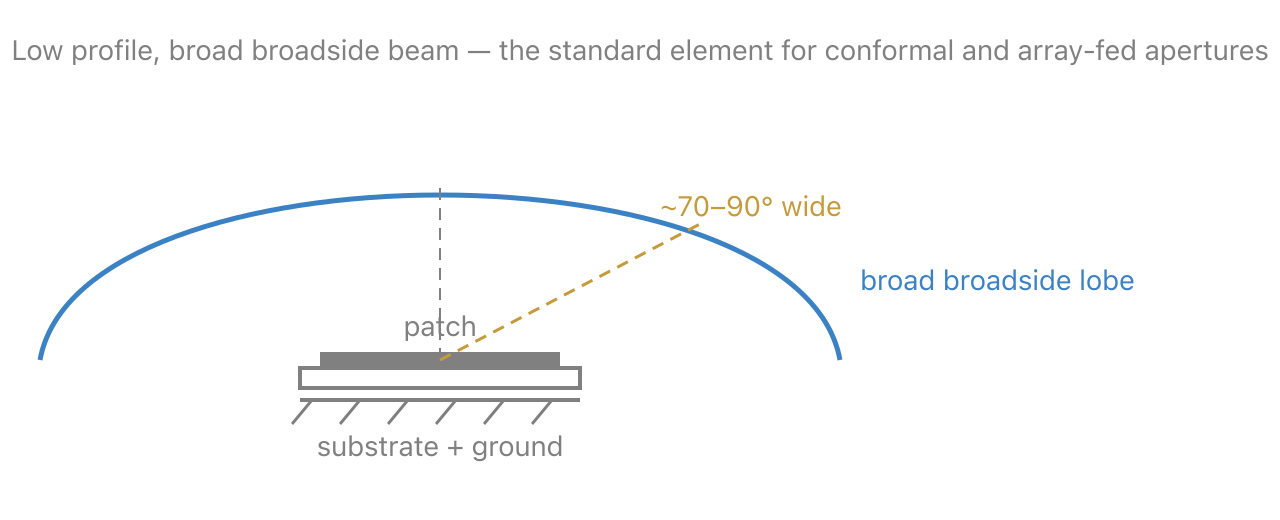
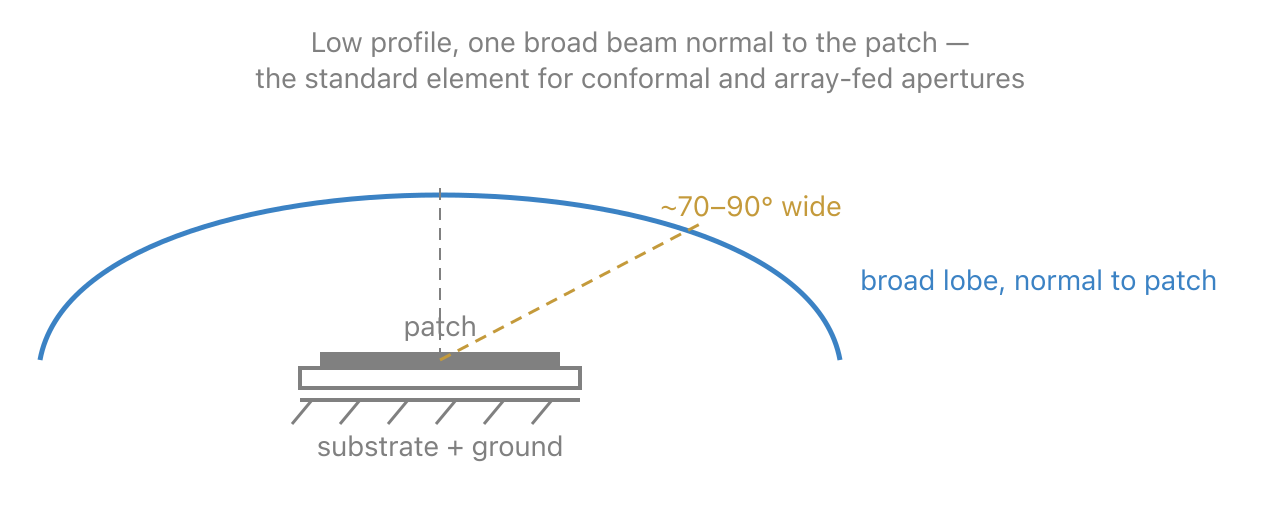
fix(diagrams): antenna review round — seven corrections
Isotropic: 'uniform over 4π sr' → 'uniform over a sphere' (diagram and
data-layer row). Monopole: reword 'images the missing half' to plain
language (ground-plane reflection supplies the dipole's missing half).
Patch: drop the awkward 'broad broadside' phrasing. Helix: coil axis
now horizontal so the pencil beam visibly fires along it. Yagi: back
lobe emanates from the driven element, not the reflector. Spiral: add
an edge-on cavity the side-view lobe emanates from; relabel 'broad
forward lobe (normal to spiral face)'. Parabolic: dish arc flipped
concave toward the feed.

Changed region(s): [[0.0, 0.0615, 1.0, 0.1846], [0.7188, 0.5231, 0.9688, 0.5846]]

diff --git a/ewpresenter/src/reference_data.cpp b/ewpresenter/src/reference_data.cpp
@@ -162,7 +162,7 @@ constexpr Row kIsotropic[] = {
             "Aₑ = G λ² / (4π)",
             "Aₑ(dBsm) = G(dBi) + 20 log₁₀ λ(m) − 11.0"),
     val("Directivity", "0 dBi  (G = 1)",          "0"),
-    val("Pattern",     "uniform over 4π sr"),
+    val("Pattern",     "uniform over a sphere"),
     val("Purpose",     "gain reference for dBi"),
 };
 
